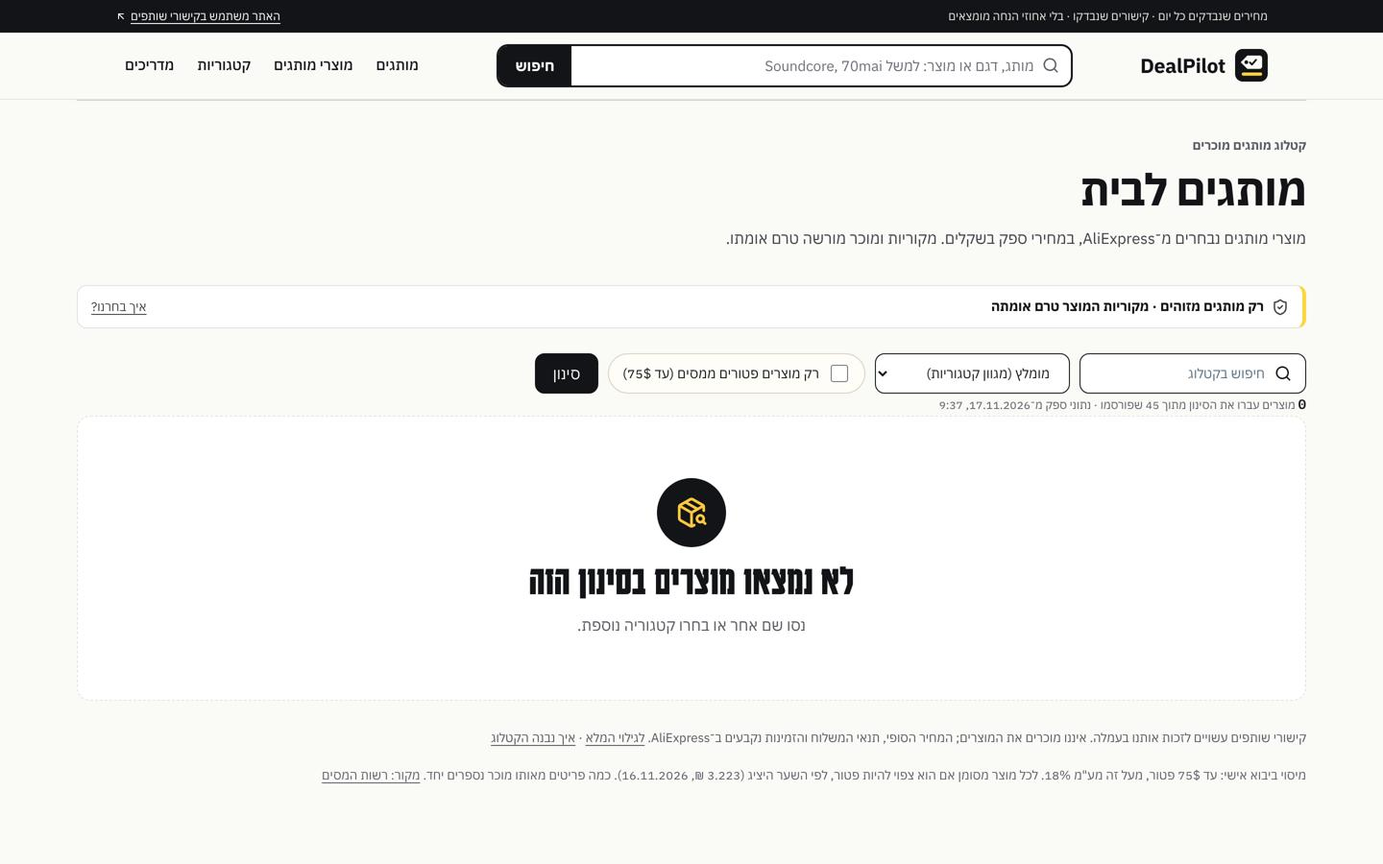
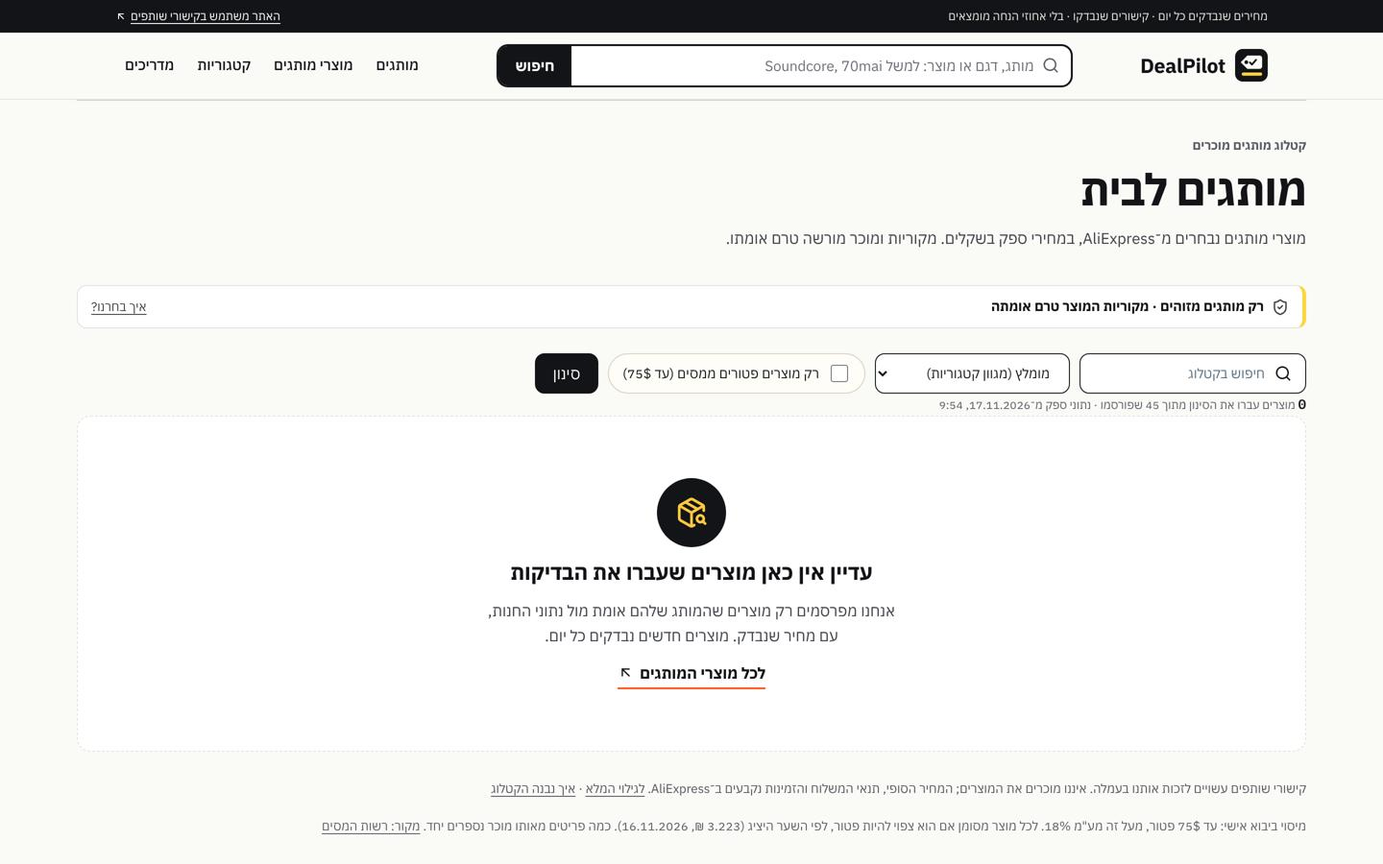
fix: namespace store cache (root cause of 'intermittent' e2e), sister brands, whole-word promo filter; docs: name round 3 reruns, readiness corrections
- store cache key includes DEALPILOT_CACHE_NAMESPACE; failure reproduced
  on demand before the fix, full e2e 43/43 after
- Xiaomi/Redmi/POCO and Anker/Soundcore count as one maker in shop names;
  promo words match whole words ('Laptop' is not 'top')
- BRAND-NAMING: queries listed; סופית first, no strong winner
- LAUNCH-READINESS: external changes listed, LCP moved to not-verified,
  120/120 lazy images, price-job correction

Claude-Session: https://claude.ai/code/session_01KCAQvVDfxRc58y86KMjZqY

Changed region(s): [[0.25, 0.84, 0.9375, 0.9644], [0.3438, 0.6533, 0.6562, 0.7467], [0.4375, 0.7778, 0.5625, 0.8089]]

diff --git a/lib/dealpilot/brands.ts b/lib/dealpilot/brands.ts
@@ -38,7 +38,9 @@ export function identifyListedBrand(input: { title: string; shopName?: string | 
   const supplied = tokens(input.supplierBrand ?? "");
   // A store named after several brands, or a parts/accessories store, is a
   // reseller of compatible items: its name does not corroborate any brand.
-  const shopBrands = BRANDS.filter(b => b.aliases.some(x => shop.includes(x.toLowerCase()))).length;
+  // Sister brands from one maker count once (a "Xiaomi Redmi Store" is still one maker).
+  const family = (slug: string) => (slug === "redmi" || slug === "poco" ? "xiaomi" : slug === "soundcore" ? "anker" : slug);
+  const shopBrands = new Set(BRANDS.filter(b => b.aliases.some(x => shop.includes(x.toLowerCase()))).map(b => family(b.slug))).size;
   const resellerShop = shopBrands > 1 || shop.some(w => w === "parts" || w === "spare" || w === "replacement");
   for (const b of BRANDS) {
     const aliases = b.aliases.map(x => x.toLowerCase());

diff --git a/lib/dealpilot/listing-rules.ts b/lib/dealpilot/listing-rules.ts
@@ -8,7 +8,7 @@
 import { categories } from "./categories.ts";
 
 // A bracketed or leading seller banner that claims a sale, a deal or popularity.
-const PROMO_WORDS = /(sale|deal|hot|top|best|new|offer|promo|discount|clearance|flash|מבצע|הנחה|חדש|לוהט|הכי נמכר|רב מכר|מומלץ)/i;
+const PROMO_WORDS = /(\b(?:sale|deal|hot|top|best|new|offer|promo|discount|clearance|flash)\b|מבצע|הנחה|חדש|לוהט|הכי נמכר|רב מכר|מומלץ)/i;
 const BRACKETED = /[【\[]([^【】\[\]]{1,30})[】\]]/g;
 const LEADING = /^\s*(?:מבצע(?:\s+חדש)?|הנחה|מחיר מבצע|hot\s*sale|big\s*sale|top\s*sale|new\s*arrival|flash\s*deal)\s*[:：!\-–—|]*\s*/i;
 

diff --git a/lib/catalog-store/server.ts b/lib/catalog-store/server.ts
@@ -91,7 +91,7 @@ export function rowToItem(r: Row, now = new Date()): CatalogItem {
 }
 
 const STORE_TAG = "dealpilot-store-catalog";
-const cachedRows = unstable_cache(async () => (await rpc("dp_catalog", { limit: 1200 })) as Row[], ["dp-store-catalog-v1"], {
+const cachedRows = unstable_cache(async () => (await rpc("dp_catalog", { limit: 1200 })) as Row[], ["dp-store-catalog-v1", process.env.DEALPILOT_CACHE_NAMESPACE ?? "default"], {
   revalidate: 300,
   tags: [STORE_TAG],
 });

diff --git a/docs/BRAND-NAMING.md b/docs/BRAND-NAMING.md
@@ -6,15 +6,29 @@
 - **No name here is presented as legally available.** Israeli trademarks: NOT CHECKED (see Method).
 
 ## Why round 2 is withdrawn
-- **The owner found existing uses of "מחיר אמת" in price comparison.** Round 2 reported "no site or brand found", so the method failed, not only the name. One use is confirmed here: a deals site called "מחיר אמת" that checks each deal against price history and other stores, which is our exact category (https://gregokrol.github.io/Web_Scraping/). There is also an English app named "Truthful Price" (https://apps.apple.com/ec/app/truthful-price/id803920985).
+- **The owner found existing uses of "מחיר אמת" in price comparison.** Round 2 reported "no site or brand found", so the method failed, not only the name. One use is confirmed here: a deals site called "מחיר אמת" that checks each deal against price history and other stores, which is our exact category (https://gregokrol.github.io/Web_Scraping/). A search result also lists an English app, "Truthful Price" (https://apps.apple.com/ec/app/truthful-price/id803920985); its page was not opened.
 - **What round 2 missed:** it searched the phrase alone. The phrase together with the category ("השוואת מחירים", "מחירים", "אפליקציה"), in Hebrew and transliteration, finds it.
 - **The `.co.il` domain results in round 2 were wrong.** Re-checked today, the same tool answers "taken" for every `.co.il`, including a random 22-character name that cannot be registered (`qzv7k2dealtest-xx91.co.il`). Yesterday it answered "free" for some. Its `.co.il` answers are unreliable either way, so every `.co.il` below is **NOT CHECKED**. Its global TLD answers behave correctly (the same random `.com` shows as free).
 - **Descriptive "מחיר X" phrases are dropped.** They are common in consumer writing, others use them, and they are hard to own. This round prefers coined or single-word names.
 
-## Method (round 3)
-- **Competitors and uses:** each candidate was searched as an exact phrase in Hebrew and in transliteration, together with category words ("מחירים", "השוואת מחירים", "אתר", "אפליקציה", "קניות"). Results come from web search, the App Store and Shopify app listings.
-- **Domains:** global TLDs were checked with the Vercel registry lookup. `.co.il` is NOT CHECKED: the tool is unreliable for it, and the ISOC-IL WHOIS host is blocked from this environment.
-- **Trademarks: NOT CHECKED.** The Israel Patent Office search, WIPO Global Brand Database and TMview all fail to resolve from this environment.
+## Method (round 3): the queries actually run
+- **Web search, exact phrase plus category, extended mode.** This is the query shape that found "מחיר אמת":
+  - `"תחתית" השוואת מחירים`
+  - `"סופית" השוואת מחירים`
+  - `"שורלי" OR "קבלית" OR "נקוב" השוואת מחירים אתר`
+- **Transliteration and domains, extended mode:** `Tachtit OR tachtit.com OR Sofit.co.il OR sofit.com shopping deals prices`
+- **Standard-mode searches, one per name, with category words:**
+  - `"שורלי" OR "Shurly" אתר קניות מחירים`
+  - `"קבלית" OR "Kablit" אתר אפליקציה`
+  - `"שקלית" OR "Shiklit" ...`
+  - `"תחתית" OR "Tachtit" מותג אתר קניות`
+  - `"נקוב" OR "Nakuv" ...`
+  - `"סופית" השוואת מחירים OR "Sofit" app Israel shopping`
+  - `"מחיר נקי" השוואת מחירים אתר`
+- **App stores:** only what web search returned (App Store and Shopify listings). The stores were not searched directly.
+- **Not opened:** the "Truthful Price" App Store page; it was seen only as a search result. **Only one of the two "מחיר אמת" uses the owner mentioned is confirmed here. Which was the second?**
+- **Domains:** global TLDs were checked with the Vercel registry lookup. `.co.il` is NOT CHECKED: the tool is unreliable for it (above).
+- **Trademarks and `.co.il` WHOIS: NOT CHECKED.** The Israel Patent Office search, ISOC-IL WHOIS, WIPO Global Brand Database and TMview are outside this environment's network allowlist, and a fetch attempt failed on that. They were not attempted in any other way (for example, by asking to allow those hosts).
 
   Owner steps, about 10 minutes per name:
   1. Search https://trademarks.justice.gov.il for the Hebrew word and the transliteration, in classes 35, 42 and 9.
@@ -27,33 +41,32 @@
   - *SEO:* own-name search clarity plus free domains, minus a generic word.
 
 ## The five names
-| Rank | Name | Meaning / idea | Uses found (wider method) | Domains (2026-11-17) | Diff. | Fit | Memo. | SEO | Total |
+| Rank | Name | Meaning / idea | Uses found | Domains (2026-11-17) | Diff. | Fit | Memo. | SEO | Total |
 |---|---|---|---|---|---|---|---|---|---|
-| 1 | **תחתית** (Tachtit) | "the bottom": the site's "bottom line" (the approved design direction). One short word | No shopping or price brand found. The word is common (a website footer, a coaster, the Carmelit "underground") | `.com` ❌ · `.app` ✅ · `.shop` ✅ · `.co.il` NOT CHECKED | 4 | 5 | 5 | 2 | **16** |
-| 2 | **סופית** (Sofit) | "final", as in the final price | No Israeli shopping use found with the wider method. Distant echo of SoFi (US fintech) | `.com` ❌ · `.app` ❌ · `.shop` ❌ (round 2) · `.co.il` NOT CHECKED (round 2's "free" withdrawn) | 4 | 4 | 5 | 2 | **15** |
-| 3 | **שורלי** (Shurly) | Coined: שורה ("line") + "-li", and it sounds like "surely" | No Israeli use found. The Latin name may be in use abroad, since `.com` and `.app` are registered | `.com` ❌ · `.app` ❌ · `.shop` ✅ · `.co.il` NOT CHECKED | 4 | 3 | 4 | 2 | **13** |
-| 4 | **קבלית** (Kablit) | Coined from קבלה ("receipt"), matching the receipt-style price box | No app or site found. **Risk:** it is also the adjective "kabbalistic" | `.com` ✅ · `.app` ✅ · `.shop` ✅ · `.co.il` NOT CHECKED | 3 | 2 | 4 | 3 | **12** |
-| 5 | **נקוב** (Nakuv) | "stated", as in "המחיר הנקוב" | No brand found. **Risk:** it means the *list* price, which is the opposite of the promise (the real price beyond the list price) | `.com` ❌ · `.app` ✅ · `.shop` ✅ · `.co.il` NOT CHECKED | 2 | 4 | 4 | 2 | **12** |
+| 1 | **סופית** (Sofit) | "final", as in the final price: the product's promise in one word | No Israeli shopping or price use. Abroad: "Sofit" is an Indian soy and almond drink brand (food, a different class). Distant echo of SoFi (US fintech) | `.com` ❌ · `.app` ❌ · `.shop` ❌ · `.co.il` NOT CHECKED | 4 | 4 | 5 | 2 | **15** |
+| 2 | **תחתית** (Tachtit) | "the bottom": the "bottom line" design direction | No shopping or price brand. "Cafe Tachtit", a Tel Aviv café. **SEO/UX risk:** "תחתית" is also a product type on Zap and CHP (coasters, pool-floor mats), so searches and on-site search would mix in those products | `.com` ❌ · `.app` ✅ · `.shop` ✅ · `.co.il` NOT CHECKED | 4 | 5 | 5 | 1 | **15** |
+| 3 | **קבלית** (Kablit) | Coined from קבלה ("receipt"), matching the receipt-style price box | Nothing found. **Risk:** it is also the adjective "kabbalistic" | `.com` ✅ · `.app` ✅ · `.shop` ✅ · `.co.il` NOT CHECKED | 3 | 2 | 4 | 3 | **12** |
+| 4 | **נקוב** (Nakuv) | "stated", as in "המחיר הנקוב" | No brand. **Risk:** it means the *list* price, the opposite of the promise. Also an insurance term ("נהג נקוב") | `.com` ❌ · `.app` ✅ · `.shop` ✅ · `.co.il` NOT CHECKED | 2 | 4 | 4 | 2 | **12** |
+| 5 | **שורלי** (Shurly) | Coined: שורה ("line") + "-li", and it sounds like "surely" | **Possible same-category use:** a reader comment on icar recommends "אתר שורלי" for the cheapest insurance price (https://www.icar.co.il/magazine4.24/bksv2krlr/). `.com` and `.app` are registered | `.com` ❌ · `.app` ❌ · `.shop` ✅ · `.co.il` NOT CHECKED | 2 | 3 | 4 | 1 | **10** |
 
 Dropped this round:
-- **מחיר אמת:** existing same-category uses (above).
+- **מחיר אמת:** an existing same-category use.
 - **מחיר נקי:** a descriptive phrase that can't be owned. `mechirnaki.com` is free, but the phrase is in everyday use.
 - **שקלית:** "Shikli", an Israeli budgeting app with a near-identical sound (https://apps.apple.com/us/app/-/id6753592336).
 - **שורה תחתונה:** the phrase is saturated (round 2).
 
 ## Recommendation
-**No name is ready to approve.** The leading candidate for the owner's trademark and `.co.il` check is **תחתית**.
-- It is the shortest and easiest to say and spell.
-- It ties the name to the approved "bottom line" design and to the tagline ("המחיר האמיתי, בשורה התחתונה").
-- No shopping or price brand uses it.
+**No name is ready to approve, and none is a strong winner.**
 
-**Honest risks:**
-- It is an ordinary word, which is weaker as a trademark. Register the wordmark together with the symbol.
-- `tachtit.com` is taken. `.app` and `.shop` are free; `.co.il` is unknown.
+If the owner wants a candidate for the trademark and `.co.il` check now, take **סופית** first.
+- It states the promise (the final price).
+- No Israeli shopping use was found.
+- It does not collide with a product type.
+- **Risks:** all global domains are taken, so the site would rely on `.co.il` (unknown). There is a distant SoFi echo, and a food brand abroad.
 
-**Backup: סופית**, if the owner prefers a word that says "final price" directly.
+**תחתית** is the alternative. It fits the design best, but the word is also a product category on Israeli shopping sites.
 
-If neither passes the trademark check, the next step is a coined name (in the style of שורלי) with a domain bought first, before a public reveal.
+**The better long-term route is a coined name** with the domain secured first. The owner can choose this instead of either word; I can generate and check a coined shortlist on request.
 
 ---
 

diff --git a/docs/LAUNCH-READINESS.md b/docs/LAUNCH-READINESS.md
@@ -1,6 +1,10 @@
 # Launch readiness, 2026-11-17
 
-Branch `claude/sharp-meitner-w6pgaa`. Production is unchanged and nothing is merged to `main`.
+Branch `claude/sharp-meitner-w6pgaa`. Production code is unchanged and nothing is merged to `main`.
+
+**Two changes were made outside the repository.** Both can be undone on request.
+1. **One test click** was written to the Production click table: `dp_click_events` id 2, source `other`, 2026-11-17 07:24:40 UTC. It inflates the click count by one. Delete it only on the owner's word.
+2. **Network allowlist:** two hosts were added to this project's cloud environment, with an owner-approved prompt: `affiliate-product-comparison-websit.vercel.app` and `ae-pic-a1.aliexpress-media.com`.
 
 The report has three groups. A fixture result never counts as live evidence.
 
@@ -11,7 +15,7 @@ Real Production site, real database or real CDN.
 |---|---|---|
 | A1 | All 46 published product images load from the real CDN | `ae-pic-a1.aliexpress-media.com`: 46/46 originals HTTP 200 |
 | A2 | The CDN serves the smaller thumbnail the new card requests | 46/46 `_350x350.jpg` HTTP 200. Catalog page 1: 1,310 KB of originals vs 378 KB of thumbnails (−71%) |
-| A3 | In a real browser on Production, no product image is broken | 10 page/viewport runs, 0 images with `naturalWidth = 0` |
+| A3 | In a real browser on Production, no product image above the fold is broken | 10 page/viewport runs, 0 loaded images with `naturalWidth = 0`. Lazy images below the fold were not scrolled on Production; see B7 |
 | A4 | Purchase path on Production: product page → CTA → `/go` → affiliate link → click recorded | `/products/1005010579452804`: HTTP 200, price ₪58.39, "checked 16 Nov 14:55". CTA `href=/go/…?source=catalog`, `rel="sponsored noopener noreferrer"`. `/go/…?url=https://evil.test` returned 307 to the stored `s.click.aliexpress.com/s/…` link, ignoring the visitor URL. **One test click** was recorded in `dp_click_events` (id 2, 07:24:40 UTC, source `other`), about 3 s after the request. The `s.click` hop was not followed, so no click reached AliExpress |
 | A5 | The redirect and click code on the branch matches the code tested in A4 | `git diff origin/main -- app/go lib/dealpilot/tracking.ts` is empty. The only change in the path is the read-side display rules (C1–C3) |
 | A6 | Catalog has no duplicates | 0 duplicate `(source, product_id)`, 0 duplicate titles, 0 duplicate images among the 46 published |
@@ -27,8 +31,9 @@ Not a deployment. The 46 real rows were copied read-only from the database into 
 | B1 | Accessibility, axe-core WCAG 2.1 A/AA | **0 violations** on home, deals, category, search and product, mobile and desktop. Production `main` today: 10–16 colour-contrast violations on home, 1 on deals and category |
 | B2 | Layout stability (CLS) | ≤ 0.042 on every page, after the font fix. Production `main`: up to 0.26 on search |
 | B3 | Mobile image weight, deals | 69 KB vs 218 KB on Production. Desktop deals: 206 KB vs 677 KB |
-| B4 | Mobile LCP: Pixel 7 profile, 4× CPU slowdown, 1.6 Mbps, 150 ms RTT | 1.48–1.79 s. Production `main`, same profile: 1.26–2.20 s. **Not comparable:** local has no network TTFB, so measure again on a Preview |
+| B4 | (moved to D12) | |
 | B5 | Display rules on real rows | 45 listed: the Dreame parts-store listing is hidden and `/go` returns 404 for it. Promo banners are gone from titles. "car" holds 3 real car products; 5 wall chargers moved to tech |
+| B7 | Every card image loads after scrolling, as a thumbnail | 120/120 card views (45 products × 2 widths, all pages and categories): `naturalWidth > 0` and `_350x350` in `currentSrc`, 0 fallbacks. The local seed had 1 gallery image per product (Production has 6), so the gallery thumbnail strip was **not** tested on real data |
 | B6 | Mobile catalog: first product early | First card image at 441 px at 390×844 (was 605). Image and price on the first screen at 390 and 412. At 320 and 375 the image starts on the first screen |
 
 ## C. Fixes made in this round (code, with tests)
@@ -43,7 +48,10 @@ Not a deployment. The 46 real rows were copied read-only from the database into 
 | C7 | Honest empty state for a category with no verified products | visual |
 | C8 | Temporary design page `/admin/design-lab` removed | build output has no `design-lab` route; `grep` finds no references |
 
-Suite: typecheck OK · unit **118/118** · build OK · e2e **43/43** (one earlier full run had 1 intermittent failure on the first store test after a cold start; it passed alone and in the next full run).
+| C9 | Store cache key now includes `DEALPILOT_CACHE_NAMESPACE`. This was the cause of the "intermittent" store e2e failure: a local real-data server left its catalog in the shared on-disk cache. Reproduced on demand, then fixed | full e2e on the final build |
+| C10 | Sister brands (Xiaomi/Redmi/POCO, Anker/Soundcore) in one store name still count as brand proof. Promo words match whole words only ("Laptop" is not "top"). A read-only scan of all 1,715 stored shop names: the multi-brand rule matches only the parts store | unit |
+
+Suite (final build): see the PROGRESS entry for the counts.
 
 ## D. NOT VERIFIED or BLOCKED
 | # | Item | Why / what is needed |
@@ -56,12 +64,13 @@ Suite: typecheck OK · unit **118/118** · build OK · e2e **43/43** (one earlie
 | D6 | **30 of 46 affiliate links never checked** | The link job checks 8 per day, so full coverage takes about 4 more days. Consider raising the batch |
 | D7 | **Availability and stock** | The API gives no stock field. Nothing on the site claims availability. NOT VERIFIED |
 | D8 | **Checkout price match** | The price shown is the provider's `target_sale_price` for one SKU. A match with AliExpress checkout (coupons, variant, shipping) is NOT VERIFIED |
-| D9 | **Price refresh margin** | It runs daily at about 04:43 UTC with a 20 h minimum age. One missed run pushes prices past 48 h, after which they are hidden (honest, but the catalog would go blank). Run #12 made 0 calls, which was correct: prices were 16 h old. Confirm run #14 (2026-11-18) updates them |
-| D10 | Local cache isolation | The store cache key ignores `DEALPILOT_CACHE_NAMESPACE`, so local servers can read each other's cached catalog. Production is unaffected (one cache per deployment) |
+| D9 | **Price refresh margin** | It runs daily at about 04:43 UTC with a 20 h minimum age. One missed run pushes prices past 48 h, after which they are hidden (honest, but the catalog would go blank). Run #12 made 0 calls, which was correct: prices were 16 h old. **Correction:** an earlier progress message in this session called this a serious problem; it is not. Confirm run #14 (2026-11-18) updates the prices |
+| D10 | Cache isolation on Vercel | Fixed for local servers (C9). "Each deployment has its own cache" is an assumption: NOT VERIFIED |
 | D11 | OG image | Waits for the name |
+| D12 | **Mobile LCP on the new design** | Locally, FCP = LCP = 1.46–1.73 s (the LCP element is the first card thumbnail on catalog pages and the hero paragraph on home). Production `main`, same profile: FCP = LCP = 1.41–1.94 s, including a real TTFB of 0.19–0.49 s. **Not comparable:** Production uses HTTP/2 + brotli, and the local server sends uncompressed over HTTP/1.1. A/B of the body-font preload: no difference. Needs a Preview measurement before claiming better or worse |
 
 ## Owner actions, in order
-1. Trademark and `.co.il` check for **תחתית** (and **סופית** as backup).
+1. Trademark and `.co.il` check for **סופית** (and **תחתית** as the alternative), or ask for a coined-name shortlist.
 2. Unpublish product 1005009849771017 (D5).
 3. Decide on new discovery terms (D3/D4).
 4. Send the Preview link for this branch (D1), then I repeat the live checks on it.

diff --git a/TASKS.md b/TASKS.md
@@ -34,7 +34,7 @@ Status: `todo` · `doing` · `done` · `blocked (reason)`. Order = business impa
 ## Phase 2 — brand and UX (in progress)
 | Task | Status |
 |---|---|
-| Name shortlist with evidence | round 3 (`docs/BRAND-NAMING.md`): מחיר אמת withdrawn (same-category uses); lead candidate **תחתית**, backup סופית; trademarks and `.co.il` NOT CHECKED; owner check needed |
+| Name shortlist with evidence | round 3 (`docs/BRAND-NAMING.md`): מחיר אמת withdrawn; no strong winner; check סופית first (alternative תחתית) or commission a coined-name shortlist; trademarks and `.co.il` NOT CHECKED |
 | Symbol, favicon, lockups | done |
 | 3 directions + incumbent scored | done: A chosen |
 | Token layer + product card + product page in A | done |
@@ -55,12 +55,12 @@ Status: `todo` · `doing` · `done` · `blocked (reason)`. Order = business impa
 | Image fallback (pre-hydration failures too) | done, e2e |
 | Live purchase path (product → /go → affiliate → click row) | done: one test click, row id 2 |
 | Catalog audit (duplicates, stale prices, links, unverified data) | done: parts store, promo banners and car category fixed at read time |
-| a11y and performance on real data | done locally (axe 0, CLS ≤ 0.042); Preview run blocked (no Vercel access) |
+| a11y and performance on real data | axe 0 and CLS ≤ 0.042 done locally; LCP needs a Preview (no Vercel access) |
 | Unpublish Dreame parts listing 1005009849771017 on Production | owner (admin, one click) |
 | New discovery terms: all 24 terms exhausted until ~2026-11-23; home category empty | owner decision |
 | Link check covers 8/day; 30/46 unchecked | todo: raise batch |
-| Store cache key ignores `DEALPILOT_CACHE_NAMESPACE` (local tests only) | todo |
-| Intermittent: first store e2e after cold start (1 of 3 full runs) | todo: investigate |
+| Store cache key ignores `DEALPILOT_CACHE_NAMESPACE` (caused the 'intermittent' store e2e failure) | done |
+| Mobile LCP of the new design on a Preview (local numbers not comparable) | blocked: Preview link |
 
 ## Phase 3 — competitive edge
 Israel vs abroad comparison (needs permitted Israeli price sources), import-cost calculator with sourced, dated tax rules, deal detection from stored price history (needs ≥ 30 days of history). todo

diff --git a/SPEC.md b/SPEC.md
@@ -22,7 +22,7 @@ Milestone 1 (persistent catalog, prices, links) is complete and merged; its spec
 ## Acceptance criteria
 | # | Criterion | Status |
 |---|---|---|
-| 1 | Name shortlist with evidence; working name chosen; no rename shipped without approval | round 3: מחיר אמת withdrawn; lead candidate תחתית (backup סופית); trademarks and `.co.il` NOT CHECKED; **awaiting owner check and approval** |
+| 1 | Name shortlist with evidence; working name chosen; no rename shipped without approval | round 3: מחיר אמת withdrawn; no strong winner (סופית first, תחתית alternative); trademarks and `.co.il` NOT CHECKED; **awaiting owner** |
 | 2 | Symbol, favicon, light/dark lockup, OG image, tokens | symbol, favicon and tokens (`app/bottomline.css`) done; OG image todo (waits for the name) |
 | 3 | 3 directions + incumbent scored with screenshots; one chosen | done: `docs/DESIGN-DIRECTIONS.md`; **A chosen** |
 | 4 | Product card, product page, home, deals/search/category, loading/error/404 in one system | done (screenshots `docs/screenshots/phase2/`) |
@@ -64,4 +64,4 @@ Branch run locally with the 46 real rows and real CDN images; Production (`main`
 | Search | 1.62–1.74 s | 0 | 70 KB | 1.39 s | 0.26 | 167 KB |
 | Product | 1.48 s | 0 | 21 KB | 1.26 s | 0 | 118 KB |
 
-LCP is not comparable across the two columns: local has no network TTFB, and Production has a warm CDN. Measure again on a Preview. axe: branch 0 violations; Production home 10–16 colour-contrast violations.
+LCP is not comparable across the two columns: FCP = LCP on both, local is uncompressed HTTP/1.1 with no network TTFB, and Production is HTTP/2 + brotli. A/B of the body-font preload made no difference. Measure again on a Preview. axe: branch 0 violations; Production home 10–16 colour-contrast violations.

diff --git a/PROGRESS.md b/PROGRESS.md
@@ -371,5 +371,11 @@ Full report: `docs/LAUNCH-READINESS.md`. Name research: `docs/BRAND-NAMING.md` (
 - `font-display: optional` and a body-font preload (CLS was up to 0.23 on real data, now ≤ 0.042).
 - Empty-category state; `/admin/design-lab` removed.
 
-### Tests
-typecheck OK · unit 118/118 · build OK · e2e 43/43 · axe 0 violations on real data (5 pages × 2 viewports).
+### Tests (final build)
+typecheck OK · unit **120/120** · build OK · e2e **43/43** (run right after a real-data local server, which proves the cache fix) · axe 0 violations on real data (5 pages × 2 viewports) · 120/120 card images loaded as thumbnails.
+
+### Follow-up corrections (same day)
+- The "intermittent" store e2e failure was cache leakage between local servers: the store cache key lacked `DEALPILOT_CACHE_NAMESPACE`. Reproduced on demand, then fixed.
+- Mobile LCP: locally FCP = LCP; the local server is uncompressed HTTP/1.1, Production is HTTP/2 + brotli, so the numbers are not comparable. A Preview measurement is needed (LAUNCH-READINESS D12).
+- Names: re-ran the "מחיר אמת"-style query (exact phrase + "השוואת מחירים", extended) on each candidate. "תחתית" is also a product type on Zap and CHP; "שורלי" has a possible insurance-comparison mention. Lead candidate is now **סופית**, with no strong winner.
+- Brand rule: sister brands count once; promo words match whole words only.
